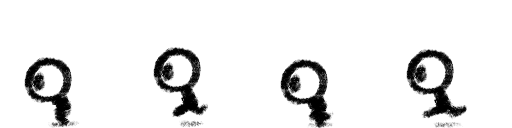
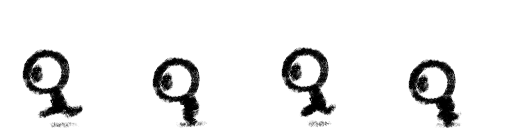
PnC Demo - Animations

diff --git a/pages/point-and-click.html b/pages/point-and-click.html
@@ -49,7 +49,7 @@
 		// console.log(screen.offsetWidth);
 		// console.log(screen.offsetHeight);
 		var player = document.getElementById("player");
-		var playerSprite = Get_PlayerSprite(player.childNodes);
+		var playerSprite = null;
 
 		var idleSpriteFrames_Path = "url(../img/Shelter_Animation_Idle.png)";
 		var runSpriteFrames_Path = "url(../img/Shelter_Animation_Run.png)";
@@ -62,6 +62,7 @@
 
 		CreateCellRows(cellsY, cellsX);
 		CreatePlayer(screen.offsetHeight/2, screen.offsetWidth/2);
+		Initialize_PlayerSprite(player.childNodes);
 		Set_PlayerSprite_Idle(playerSprite);
 
 		function CreateCellRows(rowCount, colCount) {
@@ -105,17 +106,27 @@
 		var maxChange = 80;
 		var gapAllow = 20;
 		var moving = false;
+		var facingRight = false;
+
 		var moveInteral = null;
+		var runAnimInterval = null;
+		var currFrameOffset = 0;
 
 		function Start_MovePlayer(left, top) {
 			if(!moving) {
 				moving = true;
+				clearInterval(runAnimInterval);
+				AdvanceSpriteFrame_Run(playerSprite, currFrameOffset);
+				runAnimInterval = setInterval(function() { AdvanceSpriteFrame_Run(playerSprite, currFrameOffset); }, 166.666);
 			} else {
 				clearInterval(moveInteral);
 			}
 			console.log("moving: " + moving);
 			// player.style.transition = "1s linear";
+
 			Set_PlayerSprite_Run(playerSprite);
+			// AdvanceSpriteFrame_Run(playerSprite, currFrameOffset);
+
 			MovePlayer(left, top);
 			moveInteral = setInterval(function() { MovePlayer(left, top) }, 500);
 		}
@@ -138,6 +149,16 @@
 				dirY = -1;
 			}
 
+			// Flip Sprite
+
+			if(dirX > 0 && !facingRight) {
+				playerSprite.style.transform = "scaleX(-1)";
+				facingRight = true;
+			} else if(dirX < 0 && facingRight) {
+				playerSprite.style.transform = "scaleX(1)";
+				facingRight = false;
+			}
+
 			var changeX = gapX * dirX;
 			if(changeX > maxChange) {
 				changeX = maxChange;
@@ -156,54 +177,49 @@
 				return;
 			}
 
-			// if(gapX * dirX > gapAllow || gapY * dirY > gapAllow) {
-
-			// 	var changeX = gapX * dirX;
-			// 	if(changeX > maxChange) {
-			// 		changeX = maxChange;
-			// 	}
-			// 	var changeY = gapY * dirY;
-			// 	if(changeY > maxChange) {
-			// 		changeY = maxChange;
-			// 	}
-
-			// 	player.style.left = player.offsetLeft + changeX * dirX * speed + "px";
-			// 	player.style.top = player.offsetTop + changeY * dirY * speed + "px";
-			// 	return;
-			// }
-
-			// player.style.left = player.offsetLeft + changeX * dirX * speed + "px";
-			// player.style.top = player.offsetTop + changeY * dirY * speed + "px";
-
-			// if(gapX * dirX > 0 || gapY * dirY > 0) {
-			// 	player.style.left = player.offsetLeft + gapX * speed + "px";
-			// 	player.style.top = player.offsetTop + gapY * speed + "px";
-			// 	return;
-			// }
-
 			moving = false;
 			console.log("moving: " + moving);
 			Set_PlayerSprite_Idle(playerSprite);
+
 			clearInterval(moveInteral);
+			clearInterval(runAnimInterval);
+			currFrameOffset = 0;
 		}
 
-		function Get_PlayerSprite(playerChildren) {
+		// START - Sprites and Animation
+
+		function Initialize_PlayerSprite(playerChildren) {
 			for(var i = 0; i < playerChildren.length; i++) {
 				if(playerChildren[i].className == "sprite") {
-					return playerChildren[i];
+					playerSprite = playerChildren[i];
 				}
 			}
 		}
 
+		// function Get_PlayerSprite(playerChildren) {
+		// 	for(var i = 0; i < playerChildren.length; i++) {
+		// 		if(playerChildren[i].className == "sprite") {
+		// 			return playerChildren[i];
+		// 		}
+		// 	}
+		// }
+
 		function Set_PlayerSprite_Idle(pSprite) {
 			pSprite.style.backgroundImage = idleSpriteFrames_Path;
-			pSprite.style.backgroundSize = "128px auto";
+			// pSprite.style.backgroundSize = "auto 64px";
 		}
 
 		function Set_PlayerSprite_Run(pSprite) {
 			pSprite.style.backgroundImage = runSpriteFrames_Path;
-			pSprite.style.backgroundSize = "256px auto";
+			// pSprite.style.backgroundSize = "auto 64px";
 		}
+
+		function AdvanceSpriteFrame_Run(pSprite, val) {
+			pSprite.style.backgroundPosition = val + "px";
+			currFrameOffset += 64;
+		}
+
+		// END = Sprites and Animation
 
 	</script>
 

diff --git a/css/point-and-click.css b/css/point-and-click.css
@@ -15,13 +15,13 @@
 
 .cell {
 	position: absolute;
-/*	opacity: 0.4;*/
-/*	background-color: lime;*/
+	opacity: 0.4;
+	background-color: lime;
 }
 
-/*.cell:hover {
+.cell:hover {
 	opacity: 1;
-}*/
+}
 
 #player {
 	position: absolute;
@@ -39,5 +39,5 @@
 	left: -32px;
 	top: -32px;
 	background-image: url("../img/Shelter_Animation_Idle.png");
-	background-size: 128px auto;
+	background-size: auto 64px;
 }
